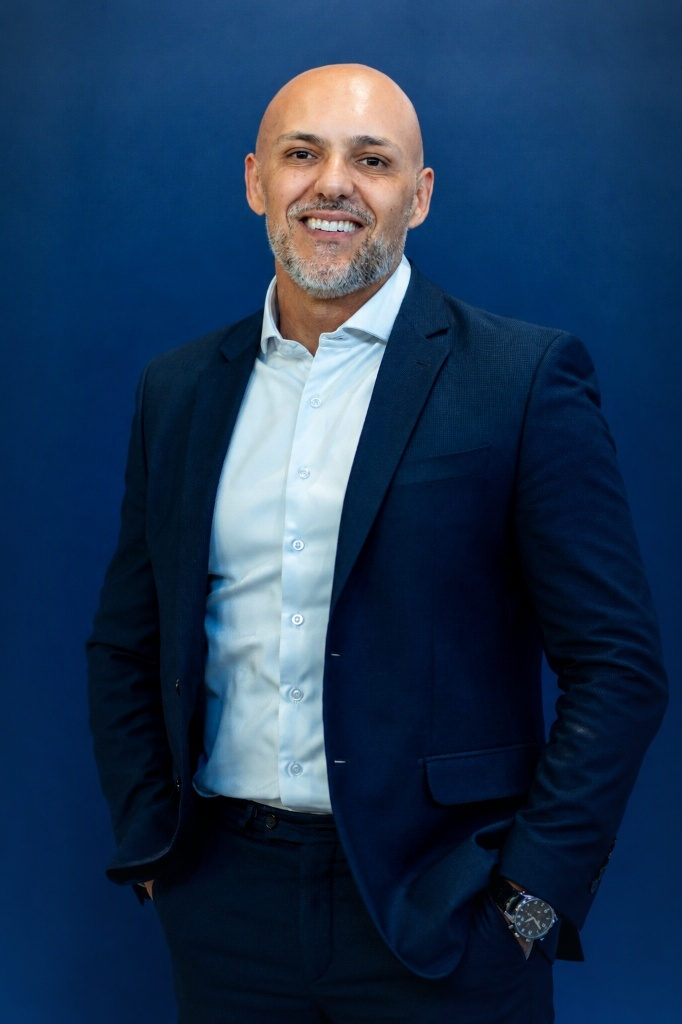
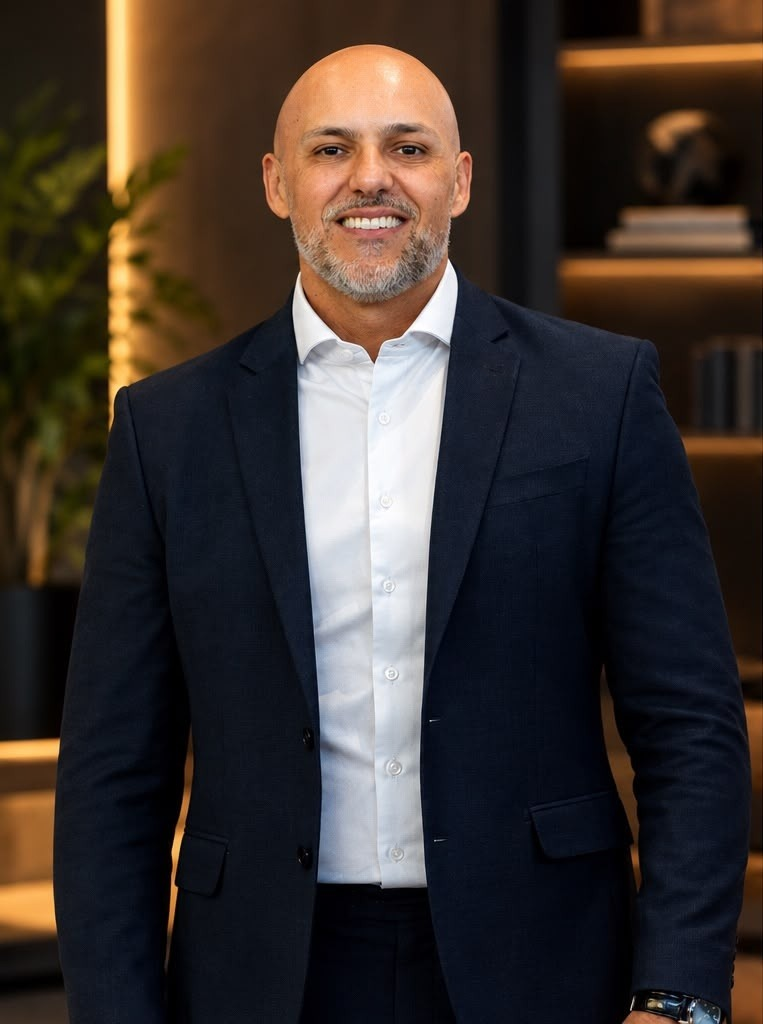
feat: atualiza retratos oficiais do Jefferson com nova sessao executiva em escritorio

diff --git a/index.html b/index.html
@@ -529,7 +529,7 @@
       align-items: center;
     }
 
-    /* Halo ambiente suave para integrar o azul com o fundo escuro do site */
+    /* Halo ambiente suave harmonizado com a iluminação arquitetônica quente das fotos */
     .hero-image-wrapper::before {
       content: '';
       position: absolute;
@@ -537,7 +537,7 @@
       height: 90%;
       top: 5%;
       left: 0;
-      background: radial-gradient(circle at 50% 40%, rgba(30, 65, 115, 0.32) 0%, rgba(197, 168, 128, 0.08) 50%, transparent 75%);
+      background: radial-gradient(circle at 50% 40%, rgba(197, 168, 128, 0.22) 0%, rgba(23, 44, 72, 0.16) 50%, transparent 75%);
       filter: blur(48px);
       z-index: 0;
       pointer-events: none;
@@ -1508,7 +1508,7 @@
 
       <div class="hero-image-wrapper">
         <div class="hero-image-card">
-          <img src="assets/images/jefferson_pizzio_portrait_1_studio.jpg?v=5" alt="Jefferson Pizzio - Wealth & Succession Advisor">
+          <img src="assets/images/jefferson_pizzio_portrait_1_studio.jpg?v=6" alt="Jefferson Pizzio - Wealth & Succession Advisor">
           <div class="hero-image-caption">
             <span class="name">Jefferson Pizzio</span>
             <span class="role">Wealth Strategist & Succession Advisor</span>
@@ -1760,7 +1760,7 @@
   <section id="trajetoria" class="section">
     <div class="container about-grid">
       <div class="about-image">
-        <img src="assets/images/jefferson_pizzio_portrait_2_studio.jpg?v=5" alt="Jefferson Pizzio">
+        <img src="assets/images/jefferson_pizzio_portrait_2_studio.jpg?v=6" alt="Jefferson Pizzio">
       </div>
 
       <div class="about-content">

diff --git a/landing-page/index.html b/landing-page/index.html
@@ -529,7 +529,7 @@
       align-items: center;
     }
 
-    /* Halo ambiente suave para integrar o azul com o fundo escuro do site */
+    /* Halo ambiente suave harmonizado com a iluminação arquitetônica quente das fotos */
     .hero-image-wrapper::before {
       content: '';
       position: absolute;
@@ -537,7 +537,7 @@
       height: 90%;
       top: 5%;
       left: 0;
-      background: radial-gradient(circle at 50% 40%, rgba(30, 65, 115, 0.32) 0%, rgba(197, 168, 128, 0.08) 50%, transparent 75%);
+      background: radial-gradient(circle at 50% 40%, rgba(197, 168, 128, 0.22) 0%, rgba(23, 44, 72, 0.16) 50%, transparent 75%);
       filter: blur(48px);
       z-index: 0;
       pointer-events: none;
@@ -1508,7 +1508,7 @@
 
       <div class="hero-image-wrapper">
         <div class="hero-image-card">
-          <img src="assets/images/jefferson_pizzio_portrait_1_studio.jpg?v=5" alt="Jefferson Pizzio - Wealth & Succession Advisor">
+          <img src="assets/images/jefferson_pizzio_portrait_1_studio.jpg?v=6" alt="Jefferson Pizzio - Wealth & Succession Advisor">
           <div class="hero-image-caption">
             <span class="name">Jefferson Pizzio</span>
             <span class="role">Wealth Strategist & Succession Advisor</span>
@@ -1760,7 +1760,7 @@
   <section id="trajetoria" class="section">
     <div class="container about-grid">
       <div class="about-image">
-        <img src="assets/images/jefferson_pizzio_portrait_2_studio.jpg?v=5" alt="Jefferson Pizzio">
+        <img src="assets/images/jefferson_pizzio_portrait_2_studio.jpg?v=6" alt="Jefferson Pizzio">
       </div>
 
       <div class="about-content">

diff --git a/materiais/deck-institucional.html b/materiais/deck-institucional.html
@@ -605,7 +605,7 @@
       </div>
       <div class="slide-body" style="display: grid; grid-template-columns: 0.35fr 0.65fr; gap: 36px; align-items: center;">
         <div style="border-radius: 4px; overflow: hidden; border: 1px solid var(--gold-border); background: #0B1524;">
-          <img src="../assets/images/jefferson_pizzio_portrait_1_studio.jpg" alt="Jefferson Pizzio" style="width: 100%; display: block;" onerror="this.src='../assets/images/jefferson_pizzio_portrait_2_studio.jpg'">
+          <img src="../assets/images/jefferson_pizzio_portrait_1_studio.jpg?v=6" alt="Jefferson Pizzio" style="width: 100%; display: block;" onerror="this.src='../assets/images/jefferson_pizzio_portrait_2_studio.jpg?v=6'">
         </div>
         <div>
           <span class="slide-eyebrow">Consultor Patrimonial & Sucessório</span>
